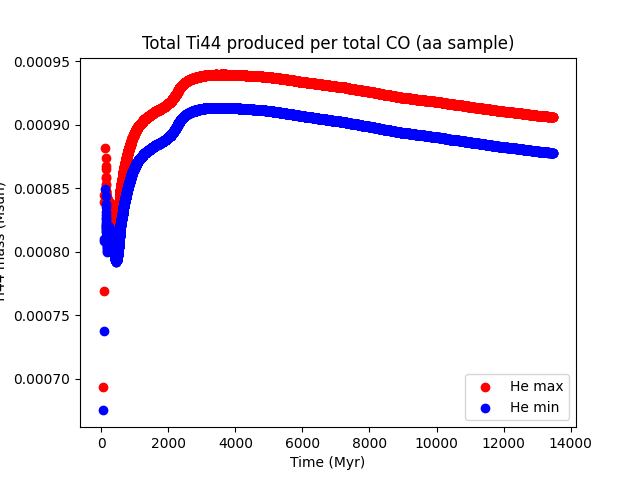
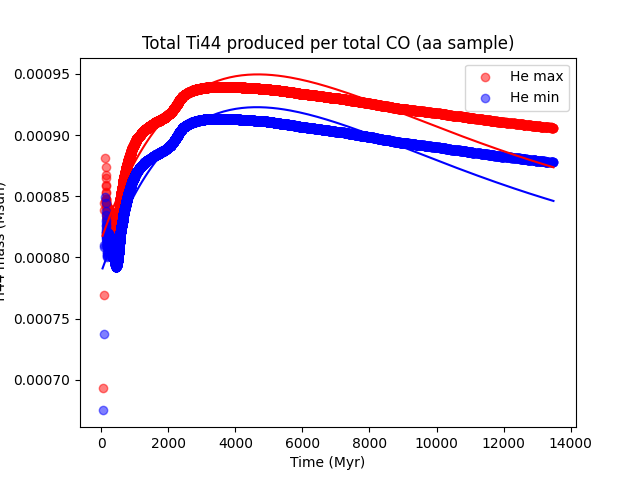
began fits for Ti/CO mass / time

diff --git a/Interpolation Code/rbf_interp/rbf_interp_outp.py b/Interpolation Code/rbf_interp/rbf_interp_outp.py
@@ -49,6 +49,7 @@ from rbf_interp import *
 #import numpy as np (within rbf_interp) 
 import pandas as pd 
 import matplotlib.pyplot as plt
+from scipy.optimize import curve_fit 
 
 
 ######### Importing Data ############
@@ -164,6 +165,7 @@ aa_totalTi_min = total_arr(aa_ti_min, aa_wd1min_pts, aa_wd2min_pts)
 ag_totalTi_max = total_arr(ag_ti_max, ag_wd1max_pts, ag_wd2max_pts) 
 ag_totalTi_min = total_arr(ag_ti_min, ag_wd1min_pts, ag_wd2min_pts) 
 
+"""
 # Finding positrons from Ti mass arrays 
 aa_pos_max = np.array(positronFromTi(aa_ti_max)) 
 aa_pos_min = np.array(positronFromTi(aa_ti_min)) 
@@ -175,4 +177,55 @@ aa_totalPos_max = total_arr(aa_pos_max, aa_wd1max_pts, aa_wd2max_pts)
 aa_totalPos_min = total_arr(aa_pos_min, aa_wd1min_pts, aa_wd2min_pts) 
 ag_totalPos_max = total_arr(ag_pos_max, ag_wd1max_pts, ag_wd2max_pts) 
 ag_totalPos_min = total_arr(ag_pos_min, ag_wd1min_pts, ag_wd2min_pts) 
+"""
 
+###### Fits ######
+
+# Model function 
+def model(x, a, b, c): 
+    return a*x*np.exp(-b*x) + c
+
+# Fitting parameters 
+aa_Ti_max_fit, pcov = curve_fit(model, aa_times, aa_totalTi_max, (4e-8, 3.3e-4, 5e-4)) 
+aa_Ti_min_fit, pcov = curve_fit(model, aa_times, aa_totalTi_min, (4e-8, 3.3e-4, 5e-4))
+ag_Ti_max_fit, pcov = curve_fit(model, ag_times, ag_totalTi_max, (4e-8, 3.3e-4, 5e-4)) 
+ag_Ti_min_fit, pcov = curve_fit(model, ag_times, ag_totalTi_min, (4e-8, 3.3e-4, 5e-4))
+
+# Linspace arrays 
+aa_times_lin = np.linspace(np.amin(aa_times), np.amax(aa_times), 150) 
+ag_times_lin = np.linspace(np.amin(ag_times), np.amax(ag_times), 150) 
+
+# Functions 
+def aa_TImax_fn(t): 
+    return model(t, aa_Ti_max_fit[0], aa_Ti_max_fit[1], aa_Ti_max_fit[2]) 
+def aa_TImin_fn(t): 
+    return model(t, aa_Ti_min_fit[0], aa_Ti_min_fit[1], aa_Ti_min_fit[2]) 
+def ag_TImax_fn(t): 
+    return model(t, ag_Ti_max_fit[0], ag_Ti_max_fit[1], ag_Ti_max_fit[2]) 
+def ag_TImin_fn(t): 
+    return model(t, ag_Ti_min_fit[0], ag_Ti_min_fit[1], ag_Ti_min_fit[2]) 
+
+"""
+# I tried out np.polyfit, 
+# But it appears not to resemble a polynomial too well 
+
+# Parameter tuples 
+aa_Ti_max_fit = np.polyfit(aa_times, aa_totalTi_max, 4) 
+aa_Ti_min_fit = np.polyfit(aa_times, aa_totalTi_min, 4) 
+ag_Ti_max_fit = np.polyfit(ag_times, ag_totalTi_max, 4) 
+ag_Ti_min_fit = np.polyfit(ag_times, ag_totalTi_min, 4) 
+
+# Functions 
+# t can be array or point like 
+def aa_TImax_fn(t): 
+    return aa_Ti_max_fit[0]*np.power(t,4) + aa_Ti_max_fit[1]*np.power(t,3) + aa_Ti_max_fit[2]*np.power(t,2) + aa_Ti_max_fit[3]*t + aa_Ti_max_fit[4]
+
+def aa_TImin_fn(t): 
+    return aa_Ti_min_fit[0]*np.power(t,4) + aa_Ti_min_fit[1]*np.power(t,3) + aa_Ti_min_fit[2]*np.power(t,2) + aa_Ti_min_fit[3]*t + aa_Ti_min_fit[4]
+
+def ag_TImax_fn(t): 
+    return ag_Ti_max_fit[0]*np.power(t,4) + ag_Ti_max_fit[1]*np.power(t,3) + ag_Ti_max_fit[2]*np.power(t,2) + ag_Ti_max_fit[3]*t + ag_Ti_max_fit[4]
+
+def ag_TImin_fn(t): 
+    return ag_Ti_min_fit[0]*np.power(t,4) + ag_Ti_min_fit[1]*np.power(t,3) + ag_Ti_min_fit[2]*np.power(t,2) + ag_Ti_min_fit[3]*t + ag_Ti_min_fit[4]
+"""

diff --git a/Interpolation Code/rbf_interp/rbf_interp_outp_plots.py b/Interpolation Code/rbf_interp/rbf_interp_outp_plots.py
@@ -33,8 +33,10 @@ plt.close("all")
 
 # Plotting total Ti44 produced over time
 # aa 
-plt.scatter(aa_times, aa_totalTi_max, color = 'Red', label = 'He max') 
-plt.scatter(aa_times, aa_totalTi_min, color = 'Blue', label = 'He min') 
+plt.scatter(aa_times, aa_totalTi_max, color = 'Red', alpha = 0.5, label = 'He max') 
+plt.scatter(aa_times, aa_totalTi_min, color = 'Blue', alpha = 0.5, label = 'He min') 
+plt.plot(aa_times_lin, aa_TImax_fn(aa_times_lin), color = 'Red') 
+plt.plot(aa_times_lin, aa_TImin_fn(aa_times_lin), color = 'Blue') 
 plt.title("Total Ti44 produced per total CO (aa sample)") 
 plt.xlabel("Time (Myr)") 
 plt.ylabel("Ti44 mass (Msun)") 
@@ -42,8 +44,10 @@ plt.legend()
 plt.savefig("../../Plots/rbf_interp_plots/results/aaTi_total") 
 plt.close("all") 
 # ag
-plt.scatter(ag_times, ag_totalTi_max, color = 'Red', label = 'He max') 
-plt.scatter(ag_times, ag_totalTi_min, color = 'Blue', label = 'He min') 
+plt.scatter(ag_times, ag_totalTi_max, color = 'Red', alpha = 0.5, label = 'He max') 
+plt.scatter(ag_times, ag_totalTi_min, color = 'Blue', alpha = 0.5, label = 'He min') 
+plt.plot(ag_times_lin, ag_TImax_fn(ag_times_lin), color = 'Red') 
+plt.plot(ag_times_lin, ag_TImin_fn(ag_times_lin), color = 'Blue') 
 plt.title("Total Ti44 produced per total CO (ag sample)") 
 plt.xlabel("Time (Myr)") 
 plt.ylabel("Ti44 mass (Msun)") 
@@ -71,7 +75,6 @@ plt.ylabel("Number of positrons")
 plt.legend() 
 plt.savefig("../../Plots/rbf_interp_plots/results/agPos") 
 plt.close("all") 
-"""
 
 # Plotting total postitrons produced over time 
 # aa 
@@ -92,3 +95,4 @@ plt.ylabel("Number of positrons")
 plt.legend() 
 plt.savefig("../../Plots/rbf_interp_plots/results/agPos_total") 
 plt.close("all")
+"""
